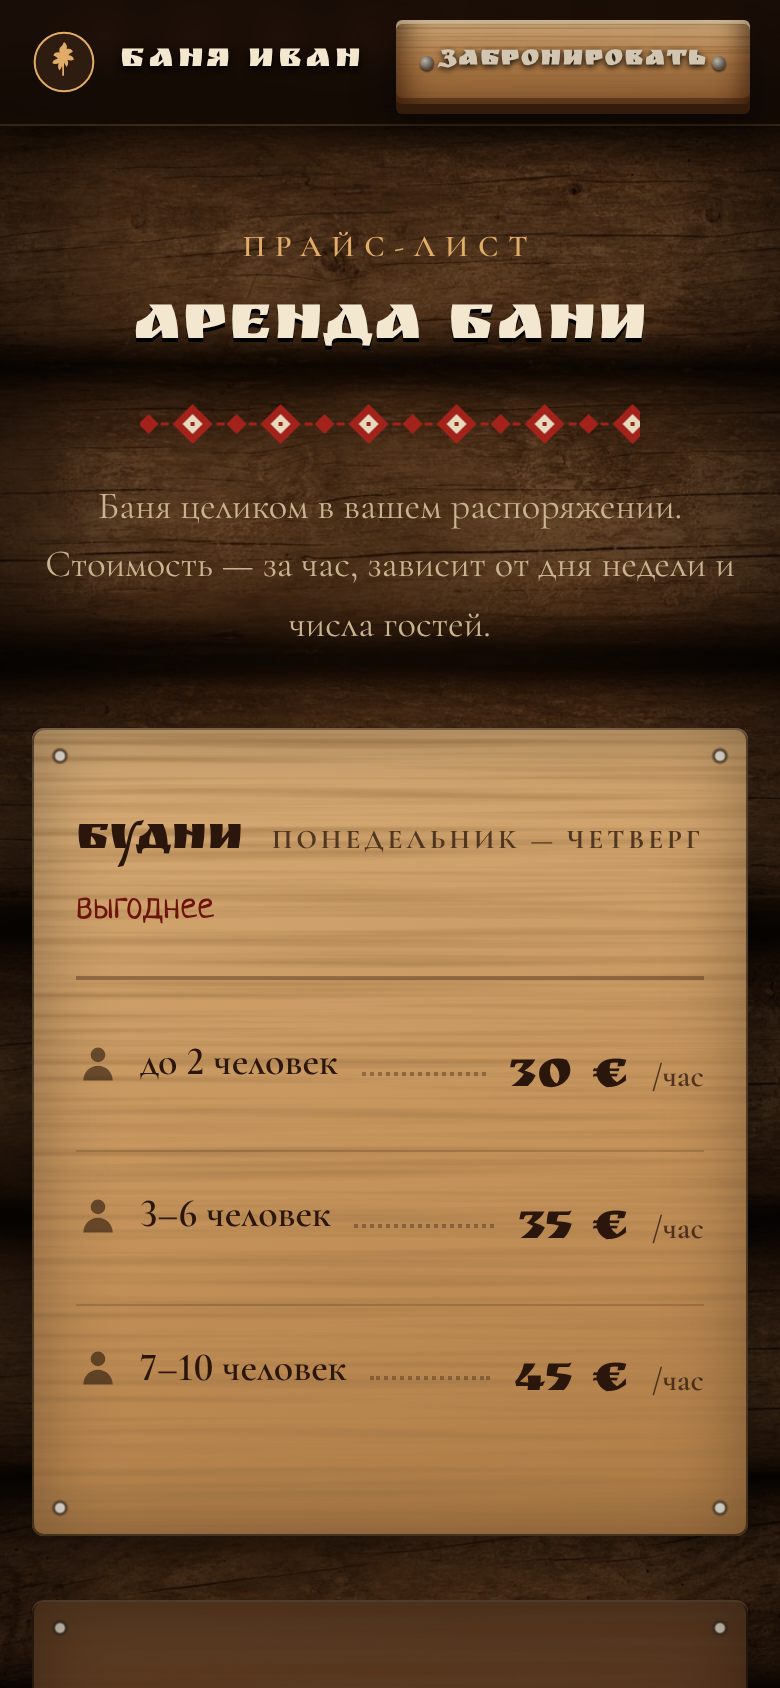
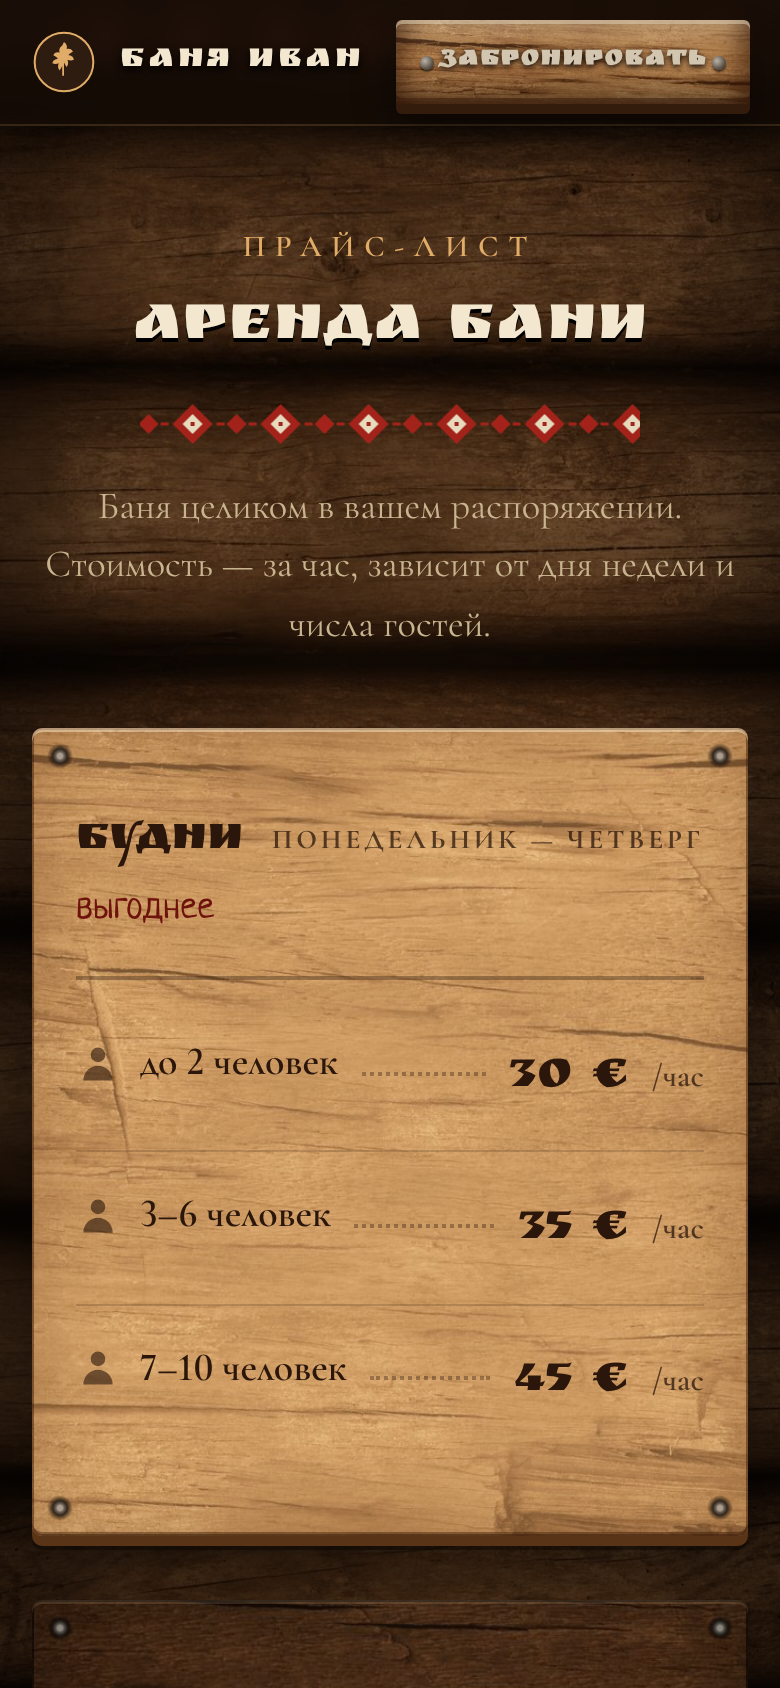
Баня Иван: карточки и бруски из реальной фактуры дерева
Плахи на основе фототекстуры rough_wood (Poly Haven, CC0) в двух тонах:
морёная и медовая сосна; кованые гвозди, толщина доски, разный рисунок
древесины у каждой карточки.

Claude-Session: https://claude.ai/code/session_01TmLsjznAwSWef89Pa8qZjW

diff --git a/banya-ivan/index.html b/banya-ivan/index.html
@@ -82,10 +82,11 @@ h1,h2,h3{margin:0;line-height:1.1}
   padding:16px 40px;min-height:56px;
   font-family:"Ruslan Display",serif;font-size:1.05rem;letter-spacing:.06em;line-height:1;
   color:var(--txt);text-decoration:none;cursor:pointer;border:0;border-radius:3px;
+  --tex:url("assets/board-light.jpg");
   background:
-    var(--grain-light),
-    linear-gradient(180deg,var(--c1) 0%,var(--c2) 48%,var(--c3) 100%);
-  background-size:500px 100%,auto;
+    linear-gradient(180deg,rgba(255,240,210,.32) 0%,rgba(255,240,210,0) 38%,rgba(0,0,0,0) 58%,rgba(40,18,5,.5) 100%),
+    var(--tex) var(--bp,0 0)/420px auto,
+    var(--c2);
   box-shadow:
     inset 0 2px 0 rgba(255,240,210,.55),
     inset 0 -3px 0 rgba(50,22,6,.45),
@@ -107,9 +108,10 @@ h1,h2,h3{margin:0;line-height:1.1}
 .brus:hover{transform:translateY(-2px);filter:brightness(1.06)}
 .brus:active{transform:translateY(4px);box-shadow:inset 0 2px 0 rgba(255,240,210,.5),inset 0 -3px 0 rgba(50,22,6,.45),inset 14px 0 14px -10px rgba(50,22,6,.7),inset -14px 0 14px -10px rgba(50,22,6,.7),0 1px 0 #3b200e,0 4px 10px rgba(0,0,0,.5)}
 .brus:focus-visible{outline:3px solid var(--honey-2);outline-offset:4px}
-.brus.dark{--c1:#6a4426;--c2:#4a2c17;--c3:#2f1b0d;--txt:var(--ink);text-shadow:0 -1px 0 rgba(0,0,0,.7),0 1px 0 rgba(255,210,150,.12)}
+.brus.dark{--tex:url("assets/board-dark.jpg");--c1:#6a4426;--c2:#4a2c17;--c3:#2f1b0d;--txt:var(--ink);text-shadow:0 -1px 0 rgba(0,0,0,.7),0 1px 0 rgba(255,210,150,.12)}
+.brus+.brus{--bp:-160px -60px}
 .brus.small{padding:11px 26px;min-height:44px;font-size:.9rem}
-.brus[aria-pressed="true"]{--c1:#f3d29e;--c2:#d9a35b;--c3:#a96b30;--txt:#2a160a;text-shadow:0 1px 0 rgba(255,236,200,.55);transform:translateY(3px);box-shadow:inset 0 2px 0 rgba(255,240,210,.55),inset 0 -3px 0 rgba(50,22,6,.45),inset 14px 0 14px -10px rgba(50,22,6,.7),inset -14px 0 14px -10px rgba(50,22,6,.7),0 2px 0 #3b200e,0 0 0 2px var(--honey),0 6px 14px rgba(0,0,0,.5)}
+.brus[aria-pressed="true"]{--tex:url("assets/board-light.jpg");--c1:#f3d29e;--c2:#d9a35b;--c3:#a96b30;--txt:#2a160a;text-shadow:0 1px 0 rgba(255,236,200,.55);transform:translateY(3px);box-shadow:inset 0 2px 0 rgba(255,240,210,.55),inset 0 -3px 0 rgba(50,22,6,.45),inset 14px 0 14px -10px rgba(50,22,6,.7),inset -14px 0 14px -10px rgba(50,22,6,.7),0 2px 0 #3b200e,0 0 0 2px var(--honey),0 6px 14px rgba(0,0,0,.5)}
 
 /* ---------- шапка ---------- */
 .topbar{position:fixed;inset:0 0 auto 0;z-index:50;transition:background .3s,box-shadow .3s,padding .3s;padding:18px 0}
@@ -152,28 +154,43 @@ h1,h2,h3{margin:0;line-height:1.1}
 
 /* ---------- доски-карточки ---------- */
 .plank{
-  position:relative;border-radius:var(--radius);
+  --tex:url("assets/board-dark.jpg");--tex-size:720px;--bx:0px;--by:0px;
+  position:relative;border-radius:5px;
   background:
-    radial-gradient(circle at 14px 14px,#cfc6b6 0 2px,#3a2e22 3px,transparent 4.5px),
-    radial-gradient(circle at calc(100% - 14px) 14px,#cfc6b6 0 2px,#3a2e22 3px,transparent 4.5px),
-    radial-gradient(circle at 14px calc(100% - 14px),#cfc6b6 0 2px,#3a2e22 3px,transparent 4.5px),
-    radial-gradient(circle at calc(100% - 14px) calc(100% - 14px),#cfc6b6 0 2px,#3a2e22 3px,transparent 4.5px),
-    var(--grain),
-    linear-gradient(170deg,#5e3b20 0%,#45291a 60%,#3a2313 100%);
-  background-color:#45291a;
-  background-size:auto,auto,auto,auto,700px 220px,auto;
-  box-shadow:inset 0 1px 0 rgba(255,220,170,.18),inset 0 0 0 1px rgba(0,0,0,.5),inset 0 0 40px rgba(0,0,0,.35),0 18px 40px rgba(0,0,0,.55);
+    radial-gradient(circle at 14px 14px,#b9b2a6 0 1.2px,#6d665c 2.2px,#2a2520 3.6px,rgba(0,0,0,.5) 4.6px,transparent 6.5px),
+    radial-gradient(circle at calc(100% - 14px) 14px,#b9b2a6 0 1.2px,#6d665c 2.2px,#2a2520 3.6px,rgba(0,0,0,.5) 4.6px,transparent 6.5px),
+    radial-gradient(circle at 14px calc(100% - 14px),#b9b2a6 0 1.2px,#6d665c 2.2px,#2a2520 3.6px,rgba(0,0,0,.5) 4.6px,transparent 6.5px),
+    radial-gradient(circle at calc(100% - 14px) calc(100% - 14px),#b9b2a6 0 1.2px,#6d665c 2.2px,#2a2520 3.6px,rgba(0,0,0,.5) 4.6px,transparent 6.5px),
+    radial-gradient(ellipse 110% 80% at 50% 20%,rgba(255,200,140,.07),transparent 60%),
+    var(--tex);
+  background-color:#3a2313;
+  background-size:auto,auto,auto,auto,auto,var(--tex-size) auto;
+  background-position:0 0,0 0,0 0,0 0,0 0,var(--bx) var(--by);
+  box-shadow:
+    inset 0 2px 0 rgba(255,215,160,.14),
+    inset 0 -2px 0 rgba(0,0,0,.5),
+    inset 0 0 0 1px rgba(0,0,0,.55),
+    inset 0 0 50px rgba(0,0,0,.5),
+    0 5px 0 #1b0e06,
+    0 7px 0 rgba(0,0,0,.35),
+    0 24px 40px rgba(0,0,0,.6);
 }
+.plank:nth-child(2n){--bx:-310px;--by:-180px}
+.plank:nth-child(3n){--bx:-520px;--by:-420px}
+.plank:nth-child(4n){--bx:-150px;--by:-610px}
+.plank:nth-child(5n){--bx:-430px;--by:-90px}
 .plank.light{
-  background:
-    radial-gradient(circle at 14px 14px,#efe8dc 0 2px,#5a4632 3px,transparent 4.5px),
-    radial-gradient(circle at calc(100% - 14px) 14px,#efe8dc 0 2px,#5a4632 3px,transparent 4.5px),
-    radial-gradient(circle at 14px calc(100% - 14px),#efe8dc 0 2px,#5a4632 3px,transparent 4.5px),
-    radial-gradient(circle at calc(100% - 14px) calc(100% - 14px),#efe8dc 0 2px,#5a4632 3px,transparent 4.5px),
-    var(--grain-light),
-    linear-gradient(170deg,#d7ad78 0%,#c4925a 55%,#ad7a44 100%);
-  background-size:auto,auto,auto,auto,500px 160px,auto;
-  color:#2a160a;
+  --tex:url("assets/board-light.jpg");--tex-size:640px;
+  background-color:#c4925a;color:#2a160a;
+  background-image:radial-gradient(circle at 14px 14px,#b9b2a6 0 1.2px,#6d665c 2.2px,#2a2520 3.6px,rgba(0,0,0,.5) 4.6px,transparent 6.5px),radial-gradient(circle at calc(100% - 14px) 14px,#b9b2a6 0 1.2px,#6d665c 2.2px,#2a2520 3.6px,rgba(0,0,0,.5) 4.6px,transparent 6.5px),radial-gradient(circle at 14px calc(100% - 14px),#b9b2a6 0 1.2px,#6d665c 2.2px,#2a2520 3.6px,rgba(0,0,0,.5) 4.6px,transparent 6.5px),radial-gradient(circle at calc(100% - 14px) calc(100% - 14px),#b9b2a6 0 1.2px,#6d665c 2.2px,#2a2520 3.6px,rgba(0,0,0,.5) 4.6px,transparent 6.5px),linear-gradient(rgba(226,184,128,.34),rgba(226,184,128,.34)),var(--tex);
+  box-shadow:
+    inset 0 2px 0 rgba(255,240,210,.45),
+    inset 0 -2px 0 rgba(60,28,8,.45),
+    inset 0 0 0 1px rgba(60,28,8,.5),
+    inset 0 0 40px rgba(90,45,15,.35),
+    0 5px 0 #5a3416,
+    0 7px 0 rgba(0,0,0,.35),
+    0 24px 40px rgba(0,0,0,.6);
 }
 
 /* зоны */
@@ -181,7 +198,8 @@ h1,h2,h3{margin:0;line-height:1.1}
 @media (max-width:980px){.zones{grid-template-columns:repeat(2,1fr)}}
 @media (max-width:600px){.zones{grid-template-columns:1fr}}
 .zone{padding:16px 16px 26px;display:flex;flex-direction:column}
-.zone .ph{position:relative;aspect-ratio:4/5;overflow:hidden;border-radius:3px;box-shadow:0 0 0 5px #24150b,0 0 0 6px rgba(224,172,103,.35),inset 0 0 0 1px rgba(0,0,0,.4)}
+.zone .ph{position:relative;aspect-ratio:4/5;overflow:hidden;border-radius:2px;box-shadow:0 0 0 1px rgba(0,0,0,.7),0 0 0 4px #1d0f07,0 0 0 5px rgba(224,172,103,.28),0 6px 14px rgba(0,0,0,.55)}
+.zone .ph::after{content:"";position:absolute;inset:0;box-shadow:inset 0 0 30px rgba(0,0,0,.35);pointer-events:none}
 .zone .ph img{width:100%;height:100%;object-fit:cover;transition:transform 1.2s cubic-bezier(.2,.7,.2,1)}
 .zone:hover .ph img{transform:scale(1.06)}
 .zone .ph .tag{position:absolute;left:12px;top:12px}
@@ -258,7 +276,7 @@ h1,h2,h3{margin:0;line-height:1.1}
 .kit-item{padding:34px 18px 28px;text-align:center;display:flex;flex-direction:column;align-items:center;gap:12px}
 .kit-item svg{width:64px;height:64px;color:#3a1f0d}
 .kit-item h3{font-family:"Ruslan Display",serif;font-weight:400;font-size:1.25rem}
-.kit-item p{margin:0;font-size:1rem;opacity:.8;line-height:1.35}
+.kit-item p{margin:0;font-size:1.02rem;font-weight:600;color:#3a200d;line-height:1.35}
 .kit-item .moss{margin-top:auto;font-size:1.4rem}
 
 /* ---------- калькулятор ---------- */
@@ -290,7 +308,7 @@ input[type=range]:focus-visible{outline:2px solid var(--honey-2);outline-offset:
 .rent-row small{display:block;color:var(--honey-2);font-weight:600}
 .mini{display:flex;align-items:center;gap:8px}
 .mini button{width:34px;height:34px;border-radius:3px;border:0;cursor:pointer;font-size:1.2rem;font-weight:700;color:#2a160a;
-  background:var(--grain-light),linear-gradient(180deg,#e9c08a,#b47a42);background-size:300px 100%,auto;box-shadow:inset 0 1px 0 rgba(255,240,210,.5),0 3px 0 #3b200e}
+  background:linear-gradient(180deg,rgba(255,240,210,.3),rgba(40,18,5,.45)),url("assets/board-light.jpg") 0 0/260px auto,#c4925a;box-shadow:inset 0 1px 0 rgba(255,240,210,.5),0 3px 0 #3b200e}
 .mini button:active{transform:translateY(2px);box-shadow:0 1px 0 #3b200e}
 .mini button:focus-visible{outline:2px solid var(--honey-2);outline-offset:2px}
 .mini output{min-width:22px;text-align:center;font-weight:700}
@@ -303,7 +321,7 @@ input[type=range]:focus-visible{outline:2px solid var(--honey-2);outline-offset:
 .receipt .total{display:flex;justify-content:space-between;align-items:baseline;margin-top:20px;padding-top:16px;border-top:3px double rgba(42,22,10,.55)}
 .receipt .total span{font-weight:700;letter-spacing:.14em;text-transform:uppercase;font-size:.9rem}
 .receipt .total b{font-family:"Ruslan Display",serif;font-weight:400;font-size:2.6rem;line-height:1}
-.receipt .note{font-size:.95rem;opacity:.75;margin:14px 0 0;line-height:1.35;text-align:center}
+.receipt .note{font-size:.98rem;font-weight:600;color:#3a200d;margin:14px 0 0;line-height:1.35;text-align:center}
 .receipt .brus{width:100%;margin-top:22px}
 .toast{position:fixed;left:50%;bottom:24px;translate:-50% calc(100% + 40px);visibility:hidden;z-index:60;padding:14px 22px;border-radius:4px;background:#1c110a;color:var(--ink);box-shadow:0 0 0 1px rgba(224,172,103,.4),0 14px 30px rgba(0,0,0,.6);transition:translate .35s cubic-bezier(.2,.8,.2,1);max-width:calc(100% - 32px);text-align:center}
 .toast.show{translate:-50% 0;visibility:visible}
